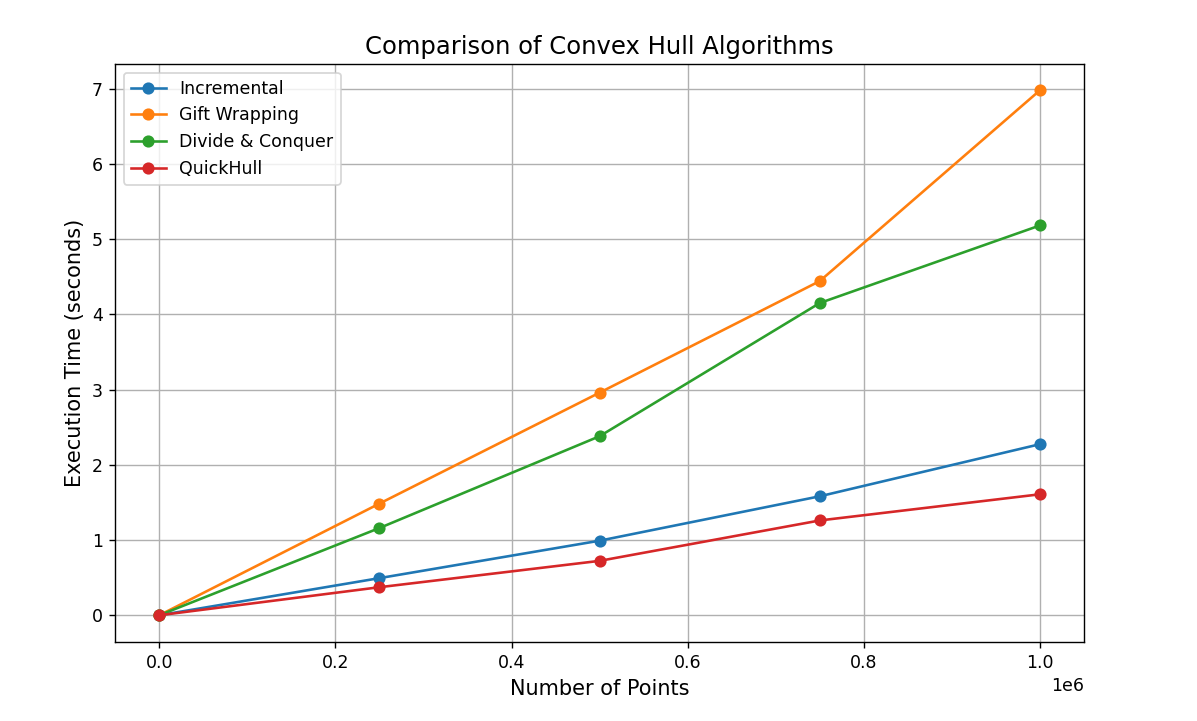
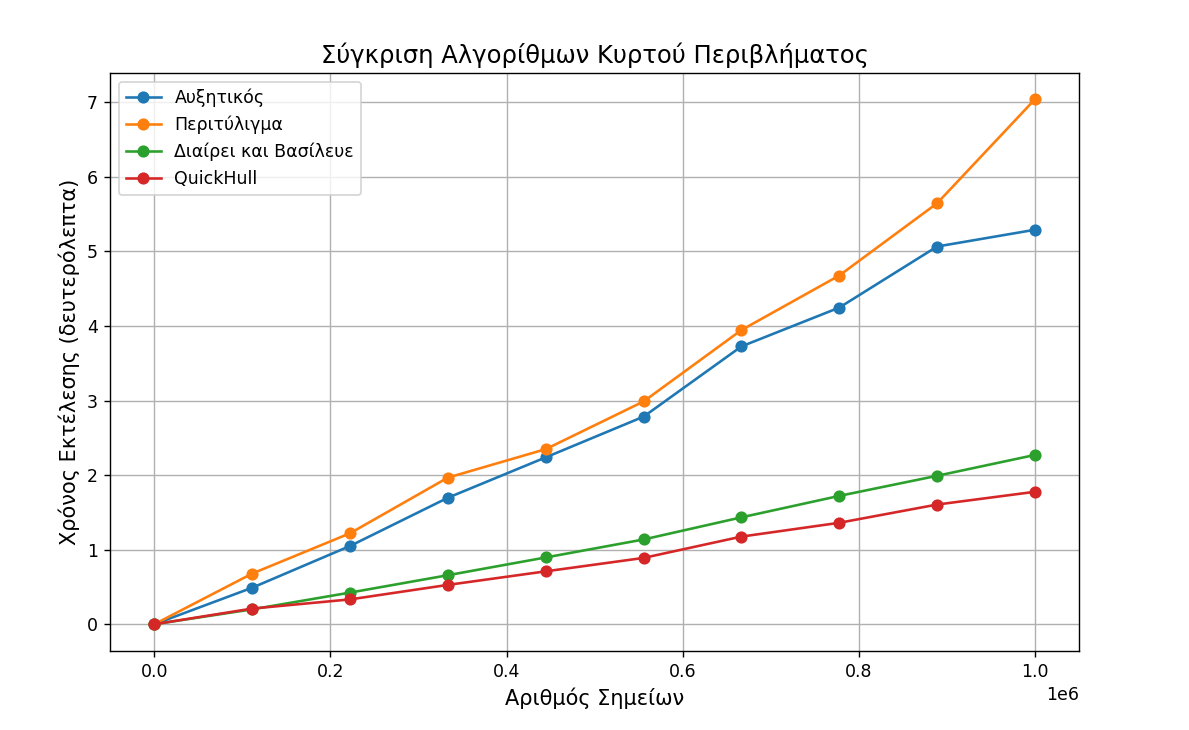
final commit(i think)

diff --git a/ex2/linear_prog.py b/ex2/linear_prog.py
@@ -1,61 +1,7 @@
 import numpy as np
 import matplotlib.pyplot as plt
 from matplotlib.patches import Patch
-
-def simplex(c, A, b):
-    """
-    Υλοποίηση της μεθόδου Simplex για την επίλυση προβλημάτων γραμμικού προγραμματισμού.
-    
-    Μέγιστο: c^T x
-    Υπό συνθήκη: Ax <= b, x >= 0
-    """
-    m, n = A.shape
-
-    # Μετατροπή του προβλήματος σε τυπική μορφή προσθέτοντας μεταβλητές χαλάρωσης
-    A = np.hstack([A, np.eye(m)])  # Προσθήκη ταυτοτικής μήτρας για τις μεταβλητές χαλάρωσης
-    c = np.concatenate([c, np.zeros(m)])  # Επέκταση της συνάρτησης κόστους με μηδενικά για τις μεταβλητές χαλάρωσης
-
-    # Αρχικοποίηση του Simplex 
-    tableau = np.zeros((m + 1, n + m + 1))
-    tableau[:-1, :-1] = A
-    tableau[:-1, -1] = b
-    tableau[-1, :-1] = -c  # Αρνητική συνάρτηση κόστους για μεγιστοποίηση
-
-    # Παρακολούθηση βάσης
-    basis = list(range(n, n + m))
-
-    while True:
-        # Έλεγχος αν είναι βέλτιστο
-        if np.all(tableau[-1, :-1] >= 0):
-            break  # Βρέθηκε βέλτιστη λύση
-
-        # Εύρεση εισερχόμενης μεταβλητής (πιο αρνητική στην γραμμή του στόχου)
-        pivot_col = np.argmin(tableau[-1, :-1])
-
-        # Έλεγχος για απεριόριστη λύση
-        if np.all(tableau[:-1, pivot_col] <= 0):
-            raise ValueError("Απεριόριστη Λύση")
-
-        # Εύρεση εξερχόμενης μεταβλητής (ελάχιστος θετικός λόγος)
-        ratios = np.divide(tableau[:-1, -1], tableau[:-1, pivot_col], 
-                           out=np.full(m, np.inf), where=tableau[:-1, pivot_col] > 0)
-        pivot_row = np.argmin(ratios)
-
-        # Pivoting
-        tableau[pivot_row, :] /= tableau[pivot_row, pivot_col]  # Κανονικοποίηση γραμμής pivot
-        for i in range(m + 1):
-            if i != pivot_row:
-                tableau[i, :] -= tableau[i, pivot_col] * tableau[pivot_row, :]
-
-        # Ενημέρωση βάσης
-        basis[pivot_row] = pivot_col
-
-    # Εξαγωγή λύσης
-    solution = np.zeros(n + m)
-    solution[basis] = tableau[:-1, -1]
-    
-    return solution[:n], tableau[-1, -1]  # Επιστροφή μόνο των μεταβλητών απόφασης
-
+from scipy.optimize import linprog
 
 if __name__ == "__main__":
     # Ορισμός του προβλήματος
@@ -78,12 +24,17 @@ if __name__ == "__main__":
     A = np.vstack([A, [0, -1]])  # x2 >= 0 → -x2 <= 0
     b = np.append(b, 0)
 
-    # Επίλυση με τη μέθοδο Simplex
-    solution, optimal_value = simplex(c, A, b)
+    # Επίλυση με τη μέθοδο linprog
+    res = linprog(-c, A_ub=A, b_ub=b, method='highs')
 
     # Εμφάνιση αποτελεσμάτων
-    print("Βέλτιστη Λύση: ", solution)
-    print("Βέλτιστη Τιμή: ", optimal_value)
+    if res.success:
+        solution = res.x
+        optimal_value = res.fun
+        print("Βέλτιστη Λύση: ", solution)
+        print("Βέλτιστη Τιμή: ", -optimal_value)
+    else:
+        print("Το πρόβλημα δεν έχει λύση.")
 
     # =================== ΑΠΕΙΚΟΝΙΣΗ ΕΦΙΚΤΗΣ ΠΕΡΙΟΧΗΣ ===================
     x1_vals = np.linspace(-5, 10, 400)
@@ -109,7 +60,7 @@ if __name__ == "__main__":
             plt.axvline(b[i] / A[i, 0], color='black', linestyle='--', label=f'Περιορισμός {i+1}')
 
     # Απεικόνιση της βέλτιστης λύσης
-    if solution is not None:
+    if res.success:
         plt.scatter(solution[0], solution[1], color='red', marker='o', label="Βέλτιστη Λύση", zorder=3)
 
     # Δημιουργία προσαρμοσμένης εγγραφής για την εφικτή περιοχή
@@ -118,7 +69,7 @@ if __name__ == "__main__":
     # Ετικέτες και εμφάνιση γραφήματος
     plt.xlabel('$x_1$')
     plt.ylabel('$x_2$')
-    plt.title("Εφικτή Περιοχή και Βέλτιστη Λύση με τη Μέθοδο Simplex")
+    plt.title("Εφικτή Περιοχή και Βέλτιστη Λύση με τη Μέθοδο linprog")
     plt.axhline(0, color='black', linewidth=1)
     plt.axvline(0, color='black', linewidth=1)
     plt.xlim(-5, 5)

diff --git a/ex1/benchmark.py b/ex1/benchmark.py
@@ -63,9 +63,9 @@ if __name__ == "__main__":
 
     # Εξαγωγή αποτελεσμάτων για την απεικόνιση
     sizes = [result[0] for result in results]
-    incremental_times = [result[1] for result in results]
+    incremental_times = [result[3] for result in results]
     gift_wrapping_times = [result[2] for result in results]
-    divide_and_conquer_times = [result[3] for result in results]
+    divide_and_conquer_times = [result[1] for result in results]
     quickhull_times = [result[4] for result in results]
 
     # Απεικόνιση των αποτελεσμάτων

diff --git a/Readme.md b/Readme.md
@@ -1,4 +1,4 @@
-Ξεκινάμε με την αρχική τεκμηρίωση της εργασίας, βασισμένη στη μορφή που προτιμάς:
+Ξεκινάω με την αρχική τεκμηρίωση της εργασίας, βασισμένη στη μορφή που προτιμάς:
 
 ---
 
@@ -94,19 +94,17 @@
 
 ## **1. Αυξητικός Αλγόριθμος**
 
-Ο αυξητικός αλγόριθμος υπολογισμού του κυρτού περιβλήματος ακολουθεί την προσέγγιση της ταξινόμησης των σημείων και της σταδιακής προσθήκης τους στο περίβλημα, εξασφαλίζοντας ότι διατηρείται η κυρτότητα.
+Ο αυξητικός αλγόριθμος υπολογισμού του κυρτού περιβλήματος ακολουθεί την προσέγγιση της ταξινόμησης των σημείων και της σταδιακής προσθήκης τους στο περίβλημα, εξασφαλίζοντας ότι διατηρείται η κυρτότητα/γωνία (δεν δημιουργούνται εσωτερικά σημεία).
 
 ### **Αποτελέσματα**
 Η εκτέλεση του αλγορίθμου σε ένα σύνολο 100 τυχαίων σημείων παρήγαγε το ακόλουθο αποτέλεσμα:
 
 ![Αυξητικός Αλγόριθμος](./data/Incremental.png)
 
-Το κυρτό περίβλημα, όπως φαίνεται, περικλείει τα εξωτερικά σημεία του συνόλου με γραμμή σε κόκκινο διακεκομμένο μοτίβο.
-
 
 ## **2. Αλγόριθμος Περιτυλίγματος Δώρου**
 
-Ο αλγόριθμος περιτυλίγματος δώρου βασίζεται στην επιλογή του αριστερότερου σημείου και τη διαδοχική εύρεση του επόμενου σημείου που σχηματίζει τη μικρότερη αριστερόστροφη γωνία.
+Ο αλγόριθμος περιτυλίγματος βασίζεται στην επιλογή του αριστερότερου σημείου και τη διαδοχική εύρεση του επόμενου σημείου που σχηματίζει τη μικρότερη αριστερόστροφη γωνία.
 
 ### **Αποτελέσματα**
 Η εφαρμογή του αλγορίθμου στο ίδιο σύνολο σημείων έδωσε το παρακάτω γράφημα:
@@ -126,12 +124,12 @@
 
 ![Διαίρει και Βασίλευε](./data/Divide.png)
 
-Το αποτέλεσμα είναι παρόμοιο με τους προηγούμενους αλγορίθμους, αλλά η ταχύτητα εκτέλεσης είναι συνήθως βελτιωμένη.
+Το αποτέλεσμα είναι παρόμοιο με τους προηγούμενους αλγορίθμους.
 
 
 ## **4. Αλγόριθμος QuickHull**
 
-Ο αλγόριθμος QuickHull είναι μια παραλλαγή του QuickSort και λειτουργεί βρίσκοντας τα ακραία σημεία και επεκτείνοντας το κυρτό περίβλημα με αναδρομική διάσπαση.
+Ο αλγόριθμος QuickHull είναι μια παραλλαγή του QuickSort και λειτουργεί βρίσκοντας τα ακραία σημεία του συνόλου δεδομένων. Στη συνέχεια, διαιρεί το σύνολο σε υποσύνολα με την ευθεία που συνδέει τα δυο σημεία και επαναλαμβάνει τη διαδικασία για κάθε υποσύνολο, μέχρι να υπολογιστεί το κυρτό περίβλημα.
 
 ### **Αποτελέσματα**
 
@@ -139,12 +137,12 @@
 
 ![QuickHull](./data/QuickHull.png)
 
-Η οπτική αναπαράσταση είναι ίδια με τις προηγούμενες μεθόδους, ωστόσο, ο QuickHull συχνά αποδίδει ταχύτερα σε αραιά σύνολα δεδομένων.
+Η οπτική αναπαράσταση είναι ίδια με τις προηγούμενες μεθόδους, ωστόσο, ο QuickHull συχνά αποδίδει ταχύτερα σε μεγάλα και αραιά σύνολα δεδομένων.
 
 
 ## **5. Σύγκριση Απόδοσης Αλγορίθμων**
 
-Για την αξιολόγηση της αποδοτικότητας των αλγορίθμων, εκτελέσαμε μετρήσεις χρόνου για διάφορα μεγέθη σημείων και παρουσιάζουμε τη γραφική απεικόνιση:
+Για να αξιολογήσω την αποδοτικότητα των αλγορίθμων, εκτέλεσα μετρήσεις χρόνου για διάφορα μεγέθη σημείων και παρουσιάζω τη γραφική απεικόνιση:
 
 ![Σύγκριση Απόδοσης](./data/HullComparison.png)
 
@@ -155,7 +153,7 @@
 
 ### **Αποτελέσματα**
 
-Η εκτέλεση του αλγορίθμου για 80 τυχαία σημεία στο χώρο R³ παρήγαγε το ακόλουθο αποτέλεσμα:
+Η εκτέλεση του αλγορίθμου για $80$ τυχαία σημεία στο χώρο $\mathbb{R}^3$ παρήγαγε το ακόλουθο αποτέλεσμα:
 
 ![Κυρτό Περίβλημα 3D](./data/3dGIF.gif)
 
@@ -169,16 +167,16 @@
 
 
 ### **Συμπεράσματα**
-Η σύγκριση των τεσσάρων αλγορίθμων καταδεικνύει ότι οι αλγόριθμοι QuickHull και Διαίρει και Βασίλευε είναι οι πιο αποδοτικοί για μεγάλες εισόδους. Αντιθέτως, το περιτύλιγμα δώρου αποδεικνύεται λιγότερο αποδοτικό λόγω της γραμμικά αυξανόμενης πολυπλοκότητας. Ο αυξητικός αλγόριθμος παρέχει μια ισορροπημένη λύση αλλά δεν ξεπερνά τους πιο αποδοτικούς αλγορίθμους.
+Η σύγκριση των τεσσάρων αλγορίθμων δείχνει ότι ο αλγόριθμος QuickHull είναι ο πιο αποδοτικός για μεγάλες εισόδους, με πολυπλοκότητα \(O(n \log n)\). Αντίθετα, ο αλγόριθμος περιτυλίγματος δώρου είναι ο λιγότερο αποδοτικός λόγω της πολυπλοκότητας \(O(n^2)\). Ο αυξητικός αλγόριθμος και ο αλγόριθμος "Διαίρει και Βασίλευε" βρίσκονται κάπου ενδιάμεσα, με τον αυξητικό να είναι πιο αργός από τον "Διαίρει και Βασίλευε".
 
-Για εφαρμογές πραγματικού χρόνου, το QuickHull αποτελεί την πιο κατάλληλη επιλογή λόγω της γρήγορης και ευέλικτης συμπεριφοράς του.
+Για εφαρμογές πραγματικού χρόνου, ο QuickHull αποτελεί την πιο κατάλληλη επιλογή λόγω της γρήγορης και ευέλικτης συμπεριφοράς του.
 
 ---
 
 # **Γραμμικός Προγραμματισμός**
 
 ## **1. Περιγραφή**
-Ο γραμμικός προγραμματισμός είναι μια μαθηματική μέθοδος βελτιστοποίησης που χρησιμοποιείται για την εύρεση της βέλτιστης λύσης ενός προβλήματος υπό συγκεκριμένους περιορισμούς. Στην παρούσα εργασία, η μέθοδος Simplex εφαρμόστηκε για την εύρεση της μέγιστης τιμής μιας αντικειμενικής συνάρτησης.
+Ο γραμμικός προγραμματισμός είναι μια τεχνική βελτιστοποίησης που χρησιμοποιείται για την εύρεση της καλύτερης δυνατής λύσης ενός προβλήματος, λαμβάνοντας υπόψη συγκεκριμένους περιορισμούς. Στην παρούσα εργασία, εφαρμόστηκε η μέθοδος Simplex για την επίλυση ενός προβλήματος μεγιστοποίησης της αντικειμενικής συνάρτησης, επιτρέποντας την εύρεση της βέλτιστης λύσης εντός του καθορισμένου συνόλου περιορισμών.
 
 ## **2. Διατύπωση του Προβλήματος**
 Το πρόβλημα που εξετάστηκε είναι:
@@ -202,15 +200,15 @@ $$
 \end{aligned}
 $$
 
-## **3. Εφαρμογή της Μεθόδου Simplex**
+## **3. Εφαρμογή**
 
-Χρησιμοποιώντας την μέθοδο Simplex, βρέθηκε η βέλτιστη λύση για το σύστημα περιορισμών. Η λύση αυτή αντιστοιχεί στο σημείο:
+Χρησιμοποιώντας την μέθοδο linprog, βρέθηκε η βέλτιστη λύση για το σύστημα περιορισμών. Η λύση αυτή αντιστοιχεί στο σημείο:
 
 - **Βέλτιστη Λύση**: $$x_1 = 1.7204, x_2 = 1.0968$$
 - **Βέλτιστη Τιμή**: $$-5.8065$$
 
 ## **4. Γραφική Αναπαράσταση**
-Η παρακάτω εικόνα δείχνει την εφικτή περιοχή καθώς και τη βέλτιστη λύση που υπολογίστηκε από τον αλγόριθμο Simplex:
+Η παρακάτω εικόνα δείχνει την εφικτή περιοχή καθώς και τη βέλτιστη λύση που υπολογίστηκε:
 
 ![Γραφική Αναπαράσταση](./data/linear_prog.png)
 
@@ -227,10 +225,12 @@ $$
 # **Διάγραμμα Voronoi & Τριγωνοποίηση Delaunay**
 
 ## **1. Περιγραφή**
-Το διάγραμμα Voronoi και η τριγωνοποίηση Delaunay είναι δύο σημαντικές δομές στην Υπολογιστική Γεωμετρία.
 
-- **Διάγραμμα Voronoi**: Χωρίζει το επίπεδο σε περιοχές γύρω από ένα σύνολο σημείων, όπου κάθε περιοχή αντιστοιχεί στο σημείο που βρίσκεται πλησιέστερα σε αυτήν.
-- **Τριγωνοποίηση Delaunay**: Συνδέει τα σημεία με τρίγωνα ώστε να μεγιστοποιηθεί η ελάχιστη γωνία κάθε τριγώνου, αποφεύγοντας πολύ λεπτά τρίγωνα.
+- **Διάγραμμα Voronoi**: Το διάγραμμα Voronoi χωρίζει το επίπεδο σε περιοχές που αντιστοιχούν σε ένα σύνολο σημείων. Κάθε περιοχή περιλαμβάνει όλα τα σημεία του επιπέδου που είναι πλησιέστερα σε ένα συγκεκριμένο σημείο από το σύνολο. Αυτό δημιουργεί κυψέλες γύρω από κάθε σημείο, όπου κάθε σημείο της κυψέλης είναι πιο κοντά στο κεντρικό σημείο της κυψέλης από οποιοδήποτε άλλο σημείο του συνόλου.
+
+- **Τριγωνοποίηση Delaunay**: Η τριγωνοποίηση Delaunay είναι μια μέθοδος σύνδεσης ενός συνόλου σημείων με τρίγωνα, έτσι ώστε να μεγιστοποιείται η ελάχιστη γωνία κάθε τριγώνου. Αυτό αποφεύγει τη δημιουργία πολύ λεπτών και μακρόστενων τριγώνων, εξασφαλίζοντας μια πιο ομοιόμορφη κατανομή των τριγώνων. Η τριγωνοποίηση Delaunay είναι χρήσιμη σε πολλές εφαρμογές, όπως η γραφική αναπαράσταση και η γεωμετρική μοντελοποίηση.
+
+- **Αντιστοίχηση διαγράμματος Voronoi και τριγωνοποίησης Delaunay**: Το διάγραμμα Voronoi και η τριγωνοποίηση Delaunay είναι αμοιβαία δυαδικά. Αυτό σημαίνει ότι αν έχουμε την τριγωνοποίηση Delaunay ενός συνόλου σημείων, μπορούμε να κατασκευάσουμε το διάγραμμα Voronoi και αντίστροφα. Οι κορυφές του διαγράμματος Voronoi είναι τα κέντρα των περιγεγραμμένων κύκλων των τριγώνων της τριγωνοποίησης Delaunay.
 
 ## **2. Υπολογισμός και Οπτικοποίηση**
 Οι παρακάτω εικόνες δείχνουν την τριγωνοποίηση Delaunay και το διάγραμμα Voronoi που προέκυψαν από ένα σύνολο σημείων:
@@ -243,32 +243,31 @@ $$
 - Οι **μπλε γραμμές** δείχνουν τα όρια των κυψελών Voronoi.
 - Τα **κόκκινα σημεία** είναι τα αρχικά δεδομένα σημείων.
 
----
 
 ### **Υπολογιστική Πολυπλοκότητα**
 
-Η υπολογιστική πολυπλοκότητα αυτών των δομών είναι ιδιαίτερα σημαντική. Η τριγωνοποίηση Delaunay εκτελείται σε \( O(n \log n) \), ενώ το διάγραμμα Voronoi έχει παρόμοια πολυπλοκότητα.
+Η υπολογιστική πολυπλοκότητα αυτών των δομών είναι ιδιαίτερα σημαντική. Η τριγωνοποίηση Delaunay εκτελείται σε \( O(n \log n) \), ενώ το διάγραμμα Voronoi έχει παρόμοια πολυπλοκότητα \( O(n \log n) \). Αυτές οι πολυπλοκότητες καθιστούν τις μεθόδους αποδοτικές για μεγάλα σύνολα δεδομένων.
 
 Η παρακάτω εικόνα δείχνει τη σύγκριση του χρόνου εκτέλεσης καθώς αυξάνεται ο αριθμός των σημείων:
 
 ![Υπολογιστική Πολυπλοκότητα](./data/Vor_Del_Complexity.png)
 
 ### **Παρατηρήσεις**
-- Η **τριγωνοποίηση Delaunay** έχει καλύτερη απόδοση σε σχέση με το **διάγραμμα Voronoi**, καθώς το Voronoi απαιτεί επιπλέον υπολογισμούς για τον καθορισμό των κυψελών.
+- Η **τριγωνοποίηση Delaunay** είναι πιο αποδοτική από το **διάγραμμα Voronoi**, καθώς το τελευταίο απαιτεί επιπλέον υπολογισμούς για τον καθορισμό των κυψελών. Ωστόσο, η χρονική πολυπλοκότητα και των δύο μεθόδων είναι παρόμοια.
 - Για πολύ μεγάλα σύνολα δεδομένων, η διαφορά στον χρόνο εκτέλεσης γίνεται πιο εμφανής.
 
 ## **3. Συμπεράσματα**
-Η μελέτη αυτών των δομών δείχνει ότι η τριγωνοποίηση Delaunay είναι πιο αποτελεσματική όσον αφορά τον χρόνο εκτέλεσης, ενώ το διάγραμμα Voronoi παρέχει σημαντικές πληροφορίες για την εγγύτητα σημείων. Ανάλογα με την εφαρμογή, κάθε μία από αυτές τις μεθόδους έχει τις δικές της χρήσιμες ιδιότητες.
+Η μελέτη αυτών των δομών δείχνει ότι η τριγωνοποίηση Delaunay και το διάγραμμα Voronoi είναι αμοιβαία συμπληρωματικές μέθοδοι. Η τριγωνοποίηση Delaunay είναι αποδοτική όσον αφορά τον χρόνο εκτέλεσης και την κατασκευή, ενώ το διάγραμμα Voronoi παρέχει πολύτιμες πληροφορίες για την εγγύτητα και τη χωρική κατανομή των σημείων. Η επιλογή της κατάλληλης μεθόδου εξαρτάται από τις συγκεκριμένες απαιτήσεις της εφαρμογής.
 
 ---
 
 # **KD-Tree: Κατασκευή και Γεωμετρική Αναζήτηση**
 
 ## **1. Εισαγωγή**
-Το KD-Tree είναι μια δομή δεδομένων που χρησιμοποιείται για την αποδοτική αναζήτηση εγγύτητας και εύρεση σημείων εντός μιας ορθογώνιας περιοχής.
+Το KD-Tree είναι μια δομή δεδομένων που χρησιμοποιείται για την αποδοτική αναζήτηση και εύρεση σημείων εντός μιας περιοχής.
 
 ## **2. Κατασκευή του KD-Tree**
-Η διαδικασία κατασκευής του KD-Tree ακολουθεί μια αναδρομική διαμέριση του χώρου, όπου σε κάθε επίπεδο χωρίζεται ο χώρος κατά μήκος του άξονα με τη μεγαλύτερη διακύμανση.
+Η κατασκευή του KD-Tree ακολουθεί μια αναδρομική διαδικασία διαίρεσης του χώρου. Σε κάθε επίπεδο του δέντρου, ο χώρος χωρίζεται σε 2 ημιεπίπεδα.
 
 ### **Βήματα Κατασκευής**
 Η παρακάτω εικόνα απεικονίζει τα βήματα κατασκευής του KD-Tree:
@@ -279,7 +278,6 @@ $$
 - Οι **μπλε διακεκομμένες γραμμές** αναπαριστούν τους οριζόντιους διαχωρισμούς.
 - Τα **μαύρα σημεία** είναι τα δεδομένα που έχουν εισαχθεί στο KD-Tree.
 
----
 
 ## **3. Γεωμετρική Αναζήτηση με KD-Tree**
 Το KD-Tree χρησιμοποιείται για την αποδοτική αναζήτηση σημείων μέσα σε μια συγκεκριμένη ορθογώνια περιοχή.
@@ -305,10 +303,8 @@ $$
 (64.95, 48.98), (61.47, 49.46), (52.64, 65.45)
 ```
 
----
-
 ## **4. Συμπεράσματα**
-Το KD-Tree αποδεικνύεται μια αποτελεσματική δομή δεδομένων για την εύρεση σημείων εντός μιας ορισμένης περιοχής. Η απόδοση του εξαρτάται από την ισορροπία του δέντρου και το πλήθος των σημείων, αλλά γενικά προσφέρει σημαντική επιτάχυνση σε σχέση με τη γραμμική αναζήτηση.
+Το KD-Tree αποδεικνύεται μια αποτελεσματική δομή δεδομένων για την εύρεση σημείων εντός μιας ορισμένης περιοχής. Η απόδοση του εξαρτάται από την ισορροπία του δέντρου και το πλήθος των σημείων.
 
 
 
